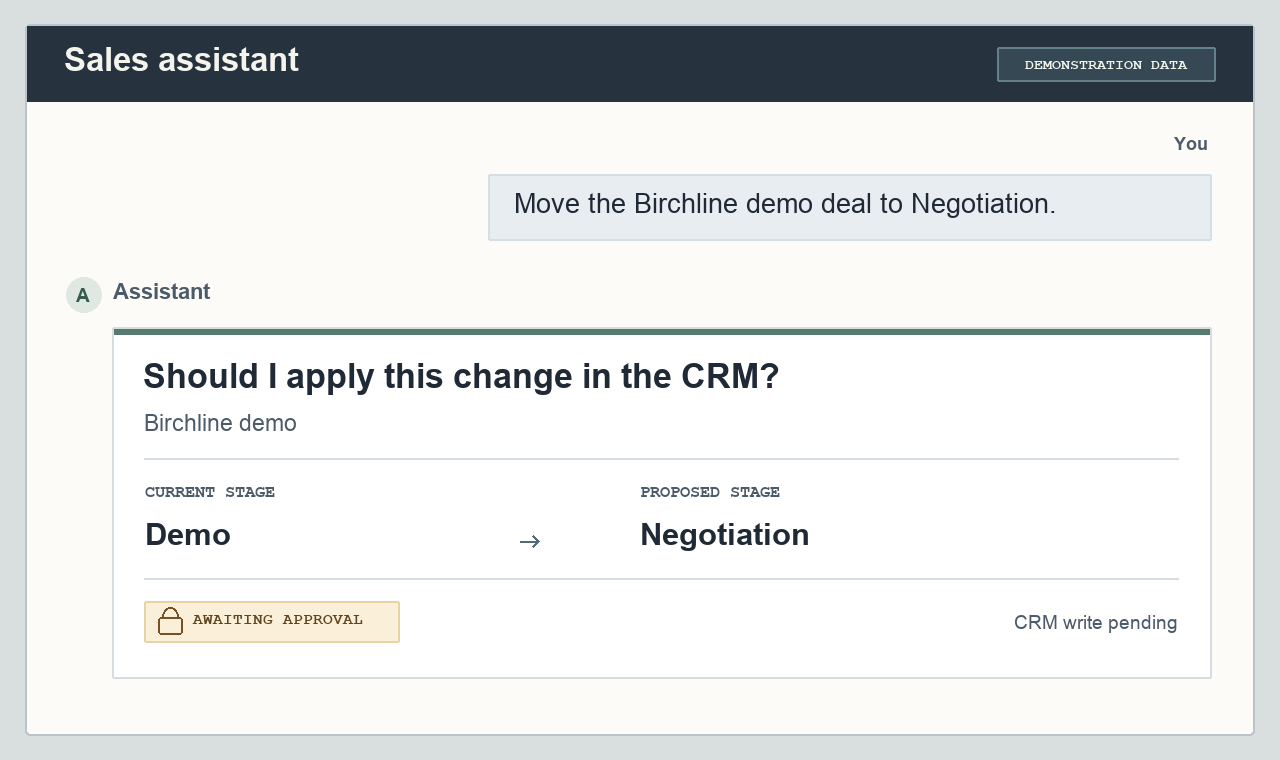
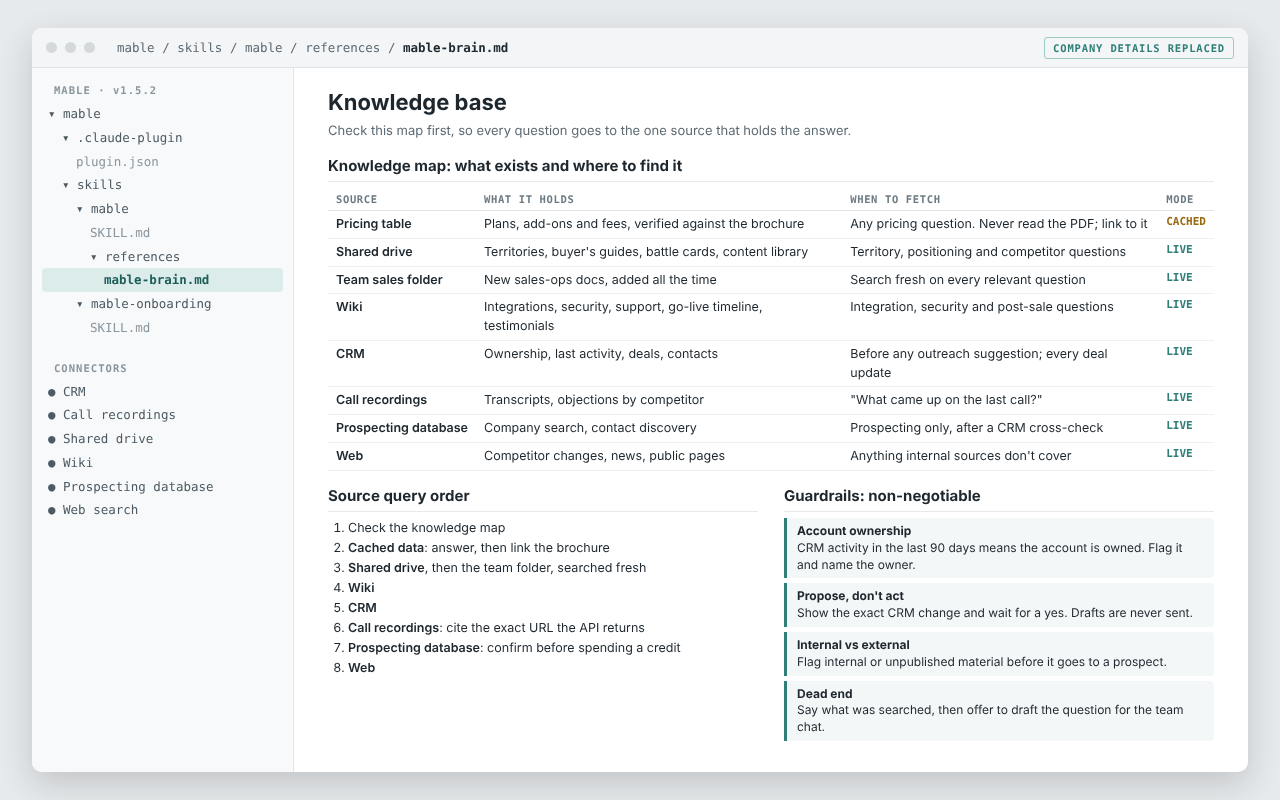
Real-tool screenshots for Venture and Mable, updated Customer Collection screenshot

diff --git a/src/content/experiments/mable.md b/src/content/experiments/mable.md
@@ -19,8 +19,8 @@ A simple question meant five tabs, a lot of searching, and usually a message to 
 Mable is a Claude plugin that does the looking for me. It's connected to all five systems plus the web, knows which one holds which kind of answer, brings back a link to the exact record or document, and asks before it changes anything. It was my first agent, and I still use it every day, now mostly to manage deals and keep the CRM current.
 
 <figure class="fig">
-  <img src="/experiments/mable/demo.png" width="1280" height="760" fetchpriority="high" alt="The sales assistant asks for approval before moving a fictional deal from Demo to Negotiation.">
-  <figcaption><span class="kind">Screenshot</span> Recreated CRM approval prompt. Demonstration data.</figcaption>
+  <img src="/experiments/mable/demo.png" width="1280" height="800" fetchpriority="high" alt="Mable's knowledge base file: a map of eight sources showing what each holds and when to fetch it, the order sources are checked, and four guardrails including CRM ownership and approval before any change.">
+  <figcaption><span class="kind">Excerpt</span> The plugin's knowledge map, source order and guardrails. Company details replaced.</figcaption>
 </figure>
 
 <section class="glance" aria-labelledby="at-a-glance">

diff --git a/src/content/experiments/venture.md b/src/content/experiments/venture.md
@@ -18,8 +18,8 @@ Venture is a multi-agent prospecting pipeline that runs inside Claude Cowork. Gi
 Seven specialized agents on three Claude models handle the reading, searching and writing. Eight Python scripts make every decision that should come out the same way each time. All of it lands on a shared board, where the rep makes the calls. I built it to replace hours of tab-switching in my own prospecting, then rolled it out to other reps.
 
 <figure class="fig">
-  <img src="/experiments/venture/demo.png" width="1280" height="760" fetchpriority="high" alt="A fictional account on the Worked tab is held for outreach because the CRM shows another rep is working it.">
-  <figcaption><span class="kind">Screenshot</span> Recreated account hold. Demonstration data.</figcaption>
+  <img src="/experiments/venture/demo.png" width="1280" height="800" fetchpriority="high" alt="A fictional Venture board on the Workable tab: eight prospect accounts with fit grade, CRM status, booking system and next play, and one account expanded to show its sourced profile.">
+  <figcaption><span class="kind">Screenshot</span> The real board, loaded with fictional accounts. Demonstration data.</figcaption>
 </figure>
 
 <section class="glance" aria-labelledby="at-a-glance">
